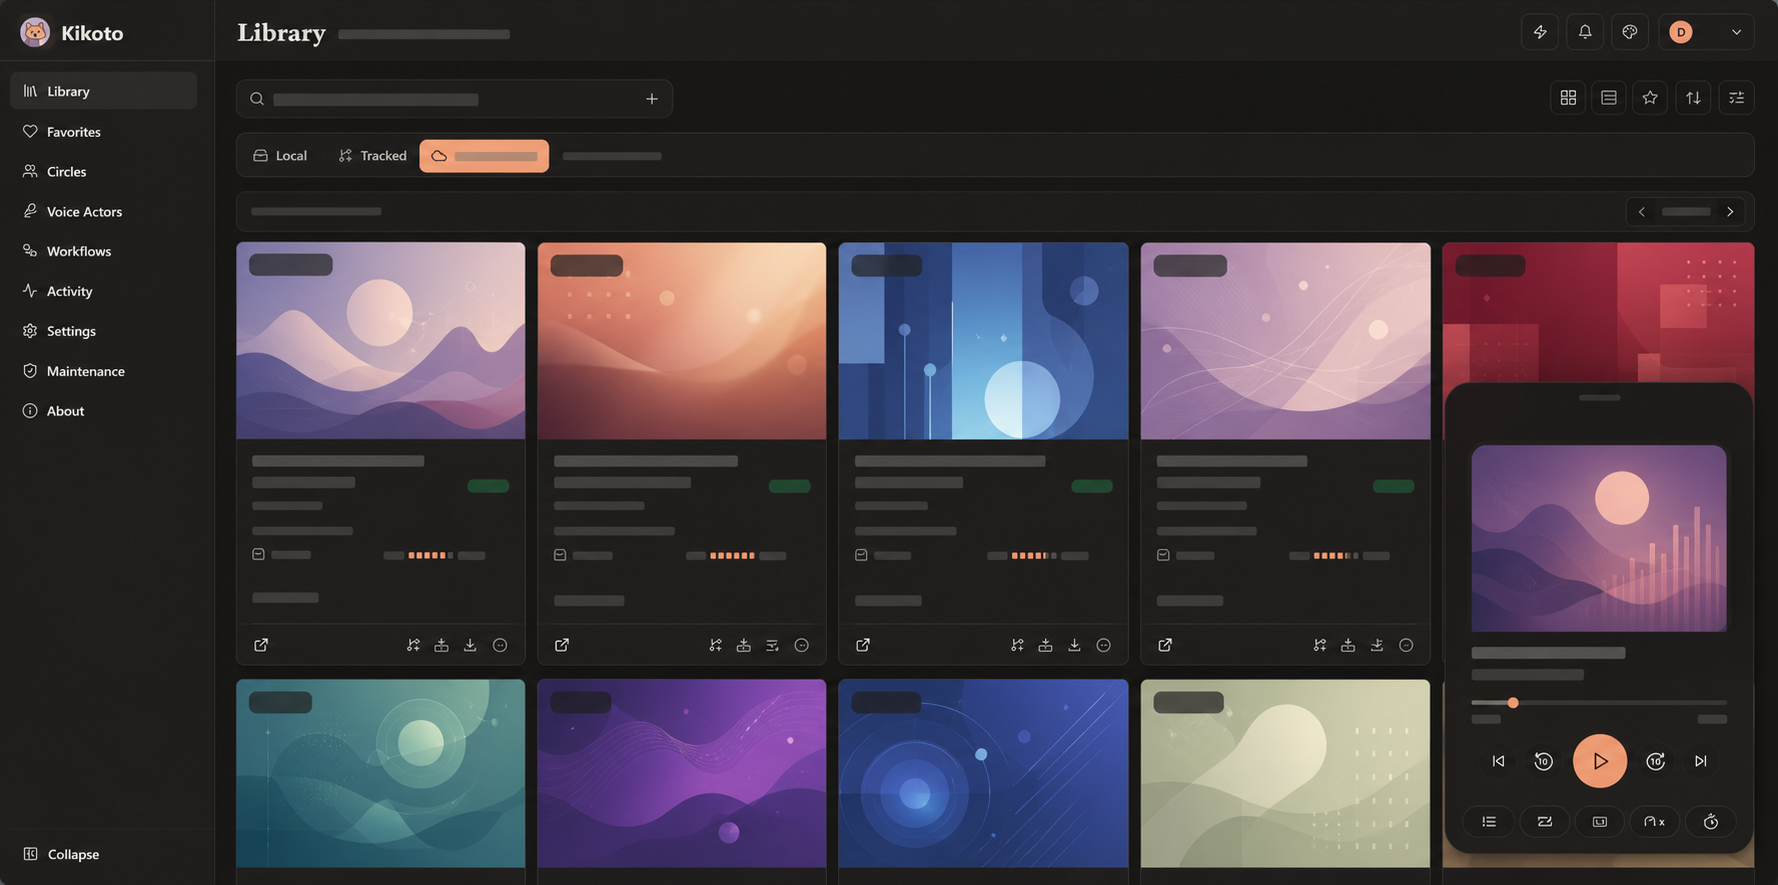
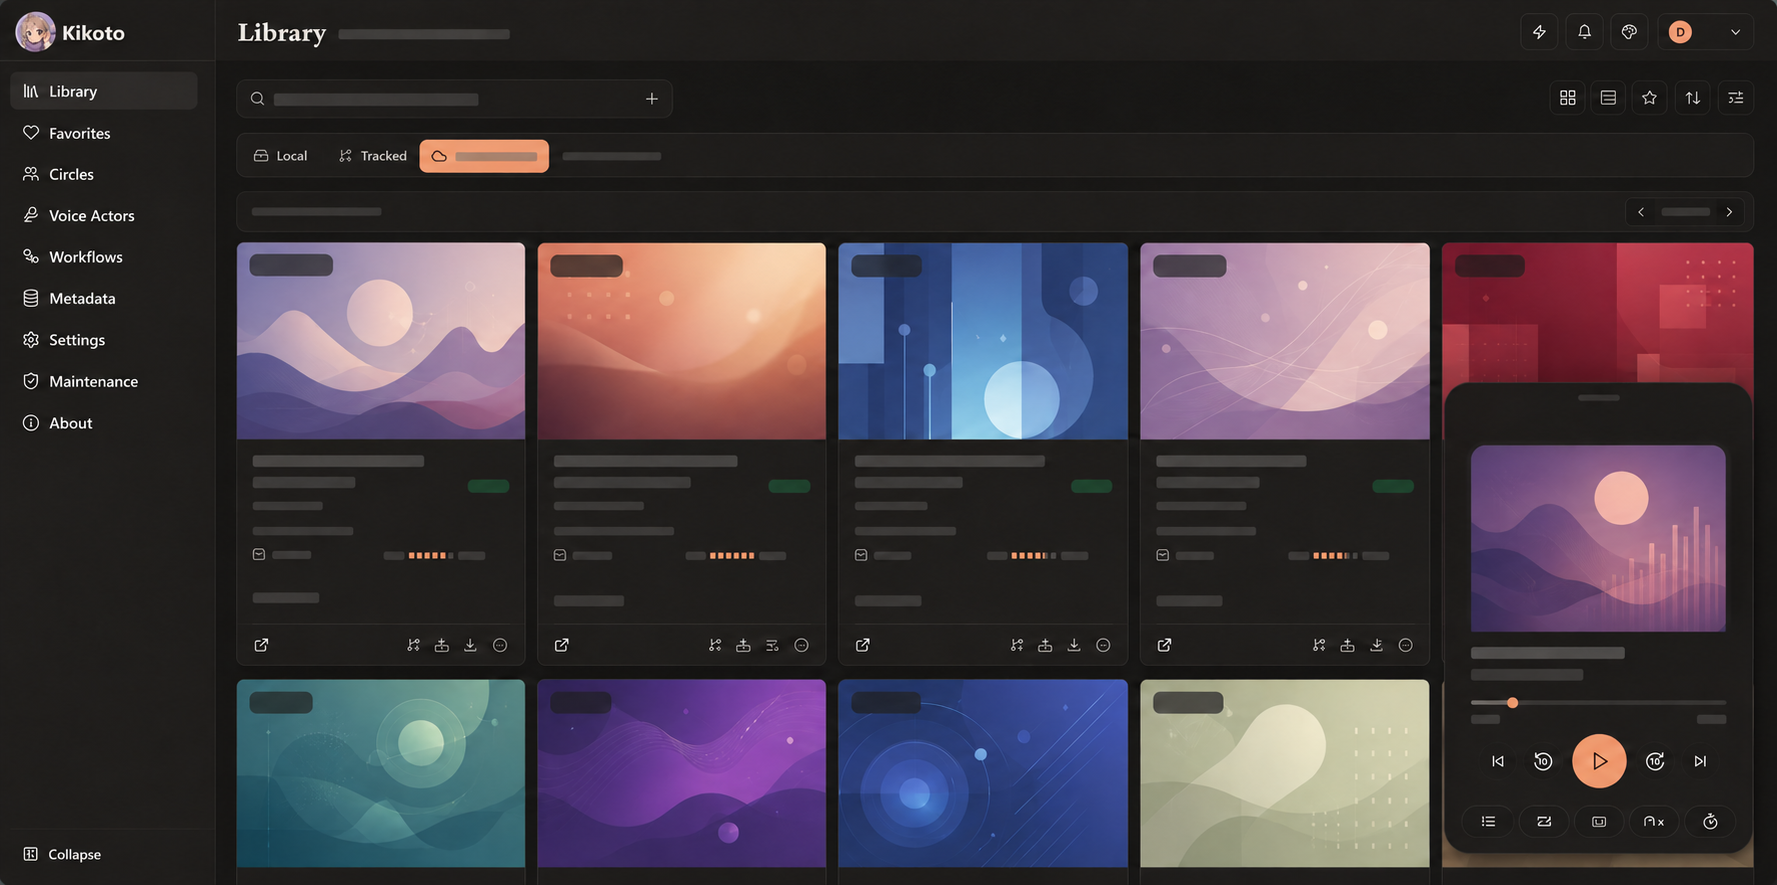
chore(release): prepare v0.6.0
Summarize changes since v0.5.0, document the schema 034 upgrade, and refresh the README showcase and navigation.

diff --git a/docs/history/v0.6.0.md b/docs/history/v0.6.0.md
@@ -1,0 +1,146 @@
+> [!IMPORTANT]
+> **Upgrade notes.** Back up `config/` and `data/` before upgrading. Releases
+> v0.5.0 through v0.5.5 use schema 032; v0.6.0 applies numbered migrations
+> `033_metadata_sync_issues.sql` and `034_user_preferences.sql` on startup.
+> Existing databases retain their works, user state, and workflow history.
+> Fresh installations reuse the packaged `baseline/034_v0.5.5.sql` snapshot;
+> its filename reflects when it was generated during development, not the
+> schema shipped in the tagged v0.5.5 release. Do not replace an existing
+> database with a fresh-install baseline.
+
+> [!NOTE]
+> Use `docker compose up -d --pull always` to upgrade the production stack;
+> restarting a container reuses its installed image. Update `KIKOTO_IMAGE`
+> first if it is pinned to an older release. When upgrading from before
+> v0.5.0, run the complete **Sync work metadata** workflow after startup to
+> refresh the multilingual metadata projection. Optional first-run source
+> configuration belongs in `config/remote-sources.yml`; the removed
+> `KIKOTO_REMOTE_SOURCES_FILE` setting is no longer read.
+
+Kikoto v0.6.0 brings account-backed playback and recommendation preferences,
+dedicated Metadata management, workflow-scoped Activity, and more reliable
+browser and Android playback. This summary covers changes since v0.5.0,
+including the improvements previously shipped in v0.5.1 through v0.5.5.
+
+## Library And Work Detail
+
+- Keep browse results visible during refreshes, restore scroll position before
+  the first frame, and retain recent mobile browse workspaces. Switching from
+  Local back to a remote source now reloads its works reliably.
+- Improve responsive work-detail layouts, show voice details before the works
+  list finishes loading, and keep metadata and playback state visible while
+  local media indexing runs. Unchanged folders retain their completed index.
+- Present Origin metadata first while retaining the selected language, favor
+  local editions in local contexts, and distinguish metadata-only editions
+  from playable files. Translated works appear under their origin circle
+  without creating duplicate work identities.
+- Open the playing track's folder when entering the actively playing work;
+  later manual navigation remains under the listener's control. Re-selecting
+  a default folder reliably opens it again.
+- Reduce large-library read work by paging before expanding summaries,
+  batching voice credits, and aggregating recommendation evidence before
+  scoring. Recommendation snapshots retain stable ordering per client session.
+- Decode common legacy text encodings for local and remote previews without
+  rewriting the original file.
+
+## Settings And Interface
+
+- Organize Settings into Account, Playback, and Recommendation. Folder
+  preference rules, recommendation tuning, and badge thresholds are stored
+  per account and shared across devices. Accounts without overrides and
+  anonymous browsing retain the existing instance defaults.
+- Saving recommendation settings refreshes the current tab's recommendation
+  session while other tabs retain their snapshots. Restoring defaults now
+  resets both scoring weights and the badge threshold before saving.
+- Simplify Maintenance to Library, Cache & Fetch, and Users, with storage paths
+  under Library and instance access controls under Users. Legacy settings and
+  maintenance links redirect to their new destinations.
+- Expand English, Simplified Chinese, Traditional Chinese, Japanese, and
+  Korean interface coverage. Load locale surfaces and secondary controls on
+  demand to reduce initial frontend work.
+- Align UI language, Mode, Style, and Color in the Appearance menu. About uses
+  an update icon when a newer release is available. Refresh the README showcase
+  with the current Metadata sidebar entry and official application icon.
+
+## Metadata And Scans
+
+- Add a dedicated Metadata page for saved work families, with All, Needs
+  attention, Metadata issues, and No available source views. Search, paging,
+  selection, and edition/provider details share one family-level list.
+- Retry selected metadata issues, recheck missing sources, and review eligible
+  no-source deletions with server-side availability checks. Metadata settings
+  open in a dialog that preserves the current list; the sync shortcut opens
+  the existing workflow.
+- Track metadata and cover failures separately, preserve known metadata and
+  manual overrides on failure, and clear only resolved issues after success.
+  Overlapping family syncs are coordinated within one server instance, and
+  stale results cannot overwrite newer successful metadata.
+- Link Activity runs to their outstanding metadata issues without rewriting
+  execution history or another user's review state. Existing structured
+  unavailable-product observations enter the recovery list during migration;
+  historical free-text errors remain in Activity.
+- Offer an initial metadata-sync prompt after a local scan discovers works
+  without metadata. Bulk sync now also populates voice actor records. Local
+  duration probes share a bounded worker and resume pending work on startup.
+
+## Workflows
+
+- Use horizontal workflow tabs and filters, with an Activity panel scoped to
+  the selected workflow. Active runs, Needs attention, History, and run details
+  remain in the same panel; mobile uses a sheet.
+- Open the same Activity surface from account actions, notifications, and
+  legacy Activity links. Run links resolve the relevant workflow before
+  loading history, and workflow links override an older saved selection.
+- Stabilize canvas connections and connector geometry. Wheel zoom now
+  requires a modifier, allowing ordinary scrolling through the page.
+
+## Playback And Android
+
+- Prefer direct range playback for compatible local and cached audio. Offer
+  compatibility playback for a track, queue, or future playback when direct
+  decoding fails, while missing files continue through source fallback.
+- Prepare incompatible local or cached audio as complete MP3 files with
+  duration and HTTP Range support, restoring seekable compatibility playback.
+  Incompatible video uses a complete HLS VOD timeline with segments generated
+  on demand. Both use the bounded, rebuildable transcode cache; original media
+  remains unchanged, and remote proxy playback stays separate.
+- Configure backward and forward seek intervals from 1 to 300 seconds, with
+  defaults of 10 and 30 seconds, across player buttons, keyboard shortcuts,
+  browser Media Session, and Android controls.
+- Authenticate Android same-server media and protected assets, improve byte
+  range validation, avoid duplicate seeks, and stabilize HLS playback and
+  native queue/position updates. Use the project icon in the native splash.
+- Update Capacitor to 8.5.2, incorporating the Android 10 keyboard-insets fix.
+  Improve server connection setup and retain default HTTP/HTTPS ports when
+  editing a saved connection. Health checks omit credentials, and switching
+  server identity clears the previous session before connecting.
+
+## Sources, Cache, And Fetch
+
+- Coordinate cache and Fetch writes to the same path, protect active Fetch
+  inputs from cleanup, re-download stale cache hits, and enforce cache limits
+  after publication. Explicit replacements are honored even when sizes match
+  or are unknown; staged content is reused only with a verified manifest.
+- Improve cancellation of queued source requests, isolate playback capacity,
+  and reuse bounded transports while retaining origin, redirect, credential,
+  and DNS-pinning checks. Validate remote cover file signatures and serve
+  cached covers with explicit raster content types and restrictive headers.
+- Give Demo its own read-only startup orchestration, bounded language-edition
+  admission, and remote-only playback without creating a local work solely
+  for catalog discovery.
+
+## Operations, Development, And Docs
+
+- Keep Docker image pulls explicit and support Compose path overrides through
+  `.env`. Clarify remote API base URLs and reorganize deployment and user docs.
+- Tighten production mobile CORS origin validation and update vulnerable
+  frontend dependencies. Production playback requires FFmpeg and FFprobe;
+  both are included in the official container image.
+- Add multilingual READMEs and user guides, documentation link/locale checks,
+  and UI copy validation. Remove the resolved Android 10 warning from README.
+- Expand behavioral regression coverage for playback, metadata recovery,
+  settings, browsing, migrations, and Android. Reuse isolated test schemas and
+  split CI checks by workload, with path-based planning for pull requests.
+- Exercise built production images through authentication, local scan, and
+  range playback. Release publication continues to require successful CI for
+  the exact tagged commit; local validation uses the corresponding Make targets.

diff --git a/README.md b/README.md
@@ -41,24 +41,6 @@ as a self-hosted web application with a responsive player and an Android client.
 > [!IMPORTANT]
 > Kikoto is under active development. Back up `config/` and `data/` before an upgrade, and review the [security model](docs/operations/security.md) before exposing an instance to a network.
 
-## Known Issues
-
-> [!WARNING]
-> **Android 10 keyboard layout (APK).** The Android 10 keyboard-layout issue has
-> been fixed by the Capacitor update to 8.5.2 and will be included in Kikoto's
-> next APK release. Until that version is pushed, current APK builds may still
-> be affected. On affected
-> devices, opening the software keyboard can leave an Android system-rendered
-> area between the app and the keyboard, reducing the usable app area to roughly
-> 6–20% of the screen. Opening Kikoto in a web browser is not affected.
-> Investigation points to Android 10 IME insets being applied twice by
-> Capacitor's SystemBars
-> handling ([#8525](https://github.com/ionic-team/capacitor/issues/8525) and
-> [#8466](https://github.com/ionic-team/capacitor/issues/8466)). The fix was merged
-> in [#8535](https://github.com/ionic-team/capacitor/pull/8535) and released in
-> [Capacitor 8.5.2](https://github.com/ionic-team/capacitor/releases/tag/8.5.2).
-> Use Kikoto in a browser if the issue persists on your Android 10 device.
-
 ## Key Features
 
 - **One library, multiple locations.** Local, cached, tracked, and remote files
@@ -73,9 +55,11 @@ as a self-hosted web application with a responsive player and an Android client.
 - **Responsive and Android-ready.** Use the same library on desktop and mobile,
   with native Android media controls and audio-focus integration.
 - **Inspectable background work.** Follow scans, metadata sync, Fetch, cleanup,
-  retries, review candidates, and recovery in Workflows and Activity.
+  retries, and review candidates in Workflows and its Activity panel. Browse
+  saved metadata and resolve metadata or missing-source issues in Metadata.
 - **Personal and administrative state.** Keep favorites, tags, listening state,
-  playback progress, roles, source configuration, and cache policy in SQLite.
+  playback progress, account-backed folder and recommendation preferences,
+  roles, source configuration, and cache policy in SQLite.
 
 ## Quick Start
 

diff --git a/docs/development/migrations.md b/docs/development/migrations.md
@@ -133,11 +133,19 @@ not represented by a schema snapshot.
   converge on the same structure. For an app-only release, verify that the
   existing packaged baseline remains selected and its ledger is still accepted.
 
-## Pending Account Preferences Migration
+## v0.6.0 Upgrade
 
-`034_user_preferences.sql` adds account-owned playback-folder and recommendation
-preferences. Existing `app_setting` values remain the fallback for accounts
-without overrides and for anonymous browsing. The new `034_v0.5.5.sql` baseline covers fresh installs; released baselines
-remain unchanged,
-while existing databases follow the numbered chain. `VERSION` remains v0.5.5
-until the next release is prepared.
+Released v0.5.0 through v0.5.5 databases are on schema 032. v0.6.0 applies
+`033_metadata_sync_issues.sql` and `034_user_preferences.sql` through the
+numbered chain. Migration 033 records metadata recovery state; migration 034
+adds account-owned playback-folder and recommendation preferences. Existing
+`app_setting` values remain the fallback for accounts without overrides and
+for anonymous browsing.
+
+Fresh installs use the already packaged `034_v0.5.5.sql` baseline, generated
+during development before the application version was advanced. Its suffix
+does not mean that the tagged v0.5.5 release included schema 034. The schema
+chain has not changed during release preparation, so v0.6.0 reuses this
+baseline without renaming it or creating a duplicate. Existing databases,
+including development databases already on schema 033 or 034, retain their
+ledger and apply only remaining numbered migrations.

diff --git a/docs/history/unreleased.md b/docs/history/unreleased.md
@@ -1,19 +1,2 @@
-## Metadata and scans
-
-- Expand Unlinked works into Work maintenance, combining metadata issues and
-  missing sources in one family list with reason/run filters, edition details,
-  and selected-work retries. Keep the Metadata tab for settings. Activity links to the
-  corresponding outstanding issues while preserving execution and review history.
-- Merge repeated failures by work/provider and clear resolved components after
-  success. Retain existing metadata on failure and protect newer successful
-  updates from stale results. Metadata and cover failures are tracked separately.
-- Coordinate overlapping DLsite family requests within one application instance.
-  Recovery requires metadata synchronization permission without granting access
-  to source configuration.
-
-## Operations and reliability
-
-- Add numbered migration `033_metadata_sync_issues.sql` and the generated
-  `033_v0.5.5.sql` fresh-install baseline. Existing databases upgrade through the
-  numbered chain; structured unavailable-product observations enter the recovery
-  list. Historical free-text errors remain in their original Activity records.
+No unreleased changes are recorded yet. Changes through the v0.6.0 release
+preparation are summarized in [v0.6.0](v0.6.0.md).

diff --git a/docs/history/index.md b/docs/history/index.md
@@ -17,6 +17,8 @@ Avoid using history pages as the only source of truth for current behavior.
 
 ## Releases
 
+- [v0.6.0](v0.6.0.md)
+- [v0.5.5](v0.5.5.md)
 - [v0.5.4](v0.5.4.md)
 - [v0.5.3](v0.5.3.md)
 - [v0.5.2](v0.5.2.md)
